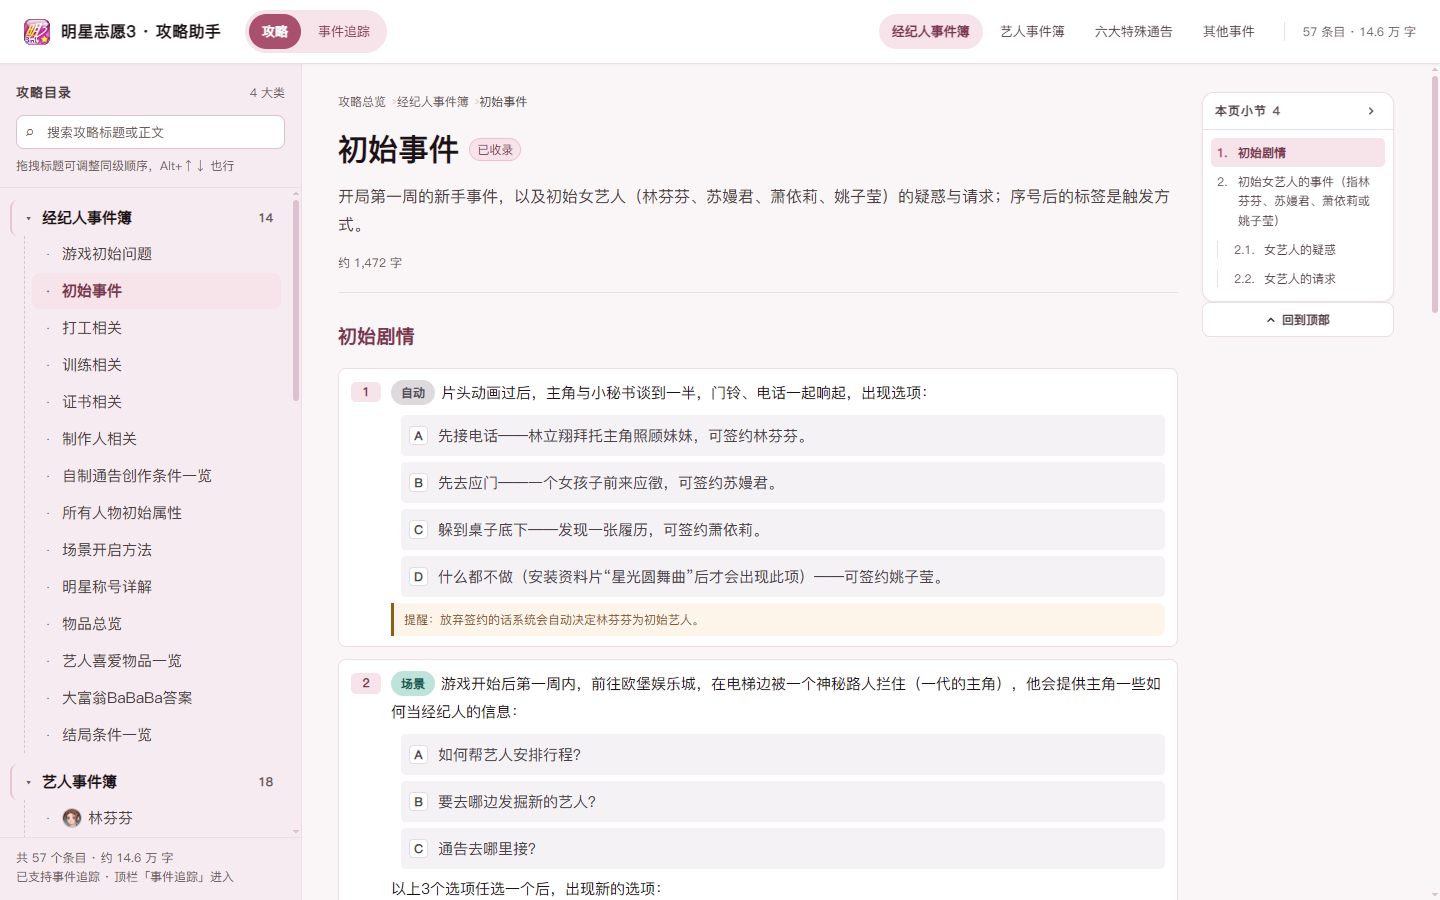
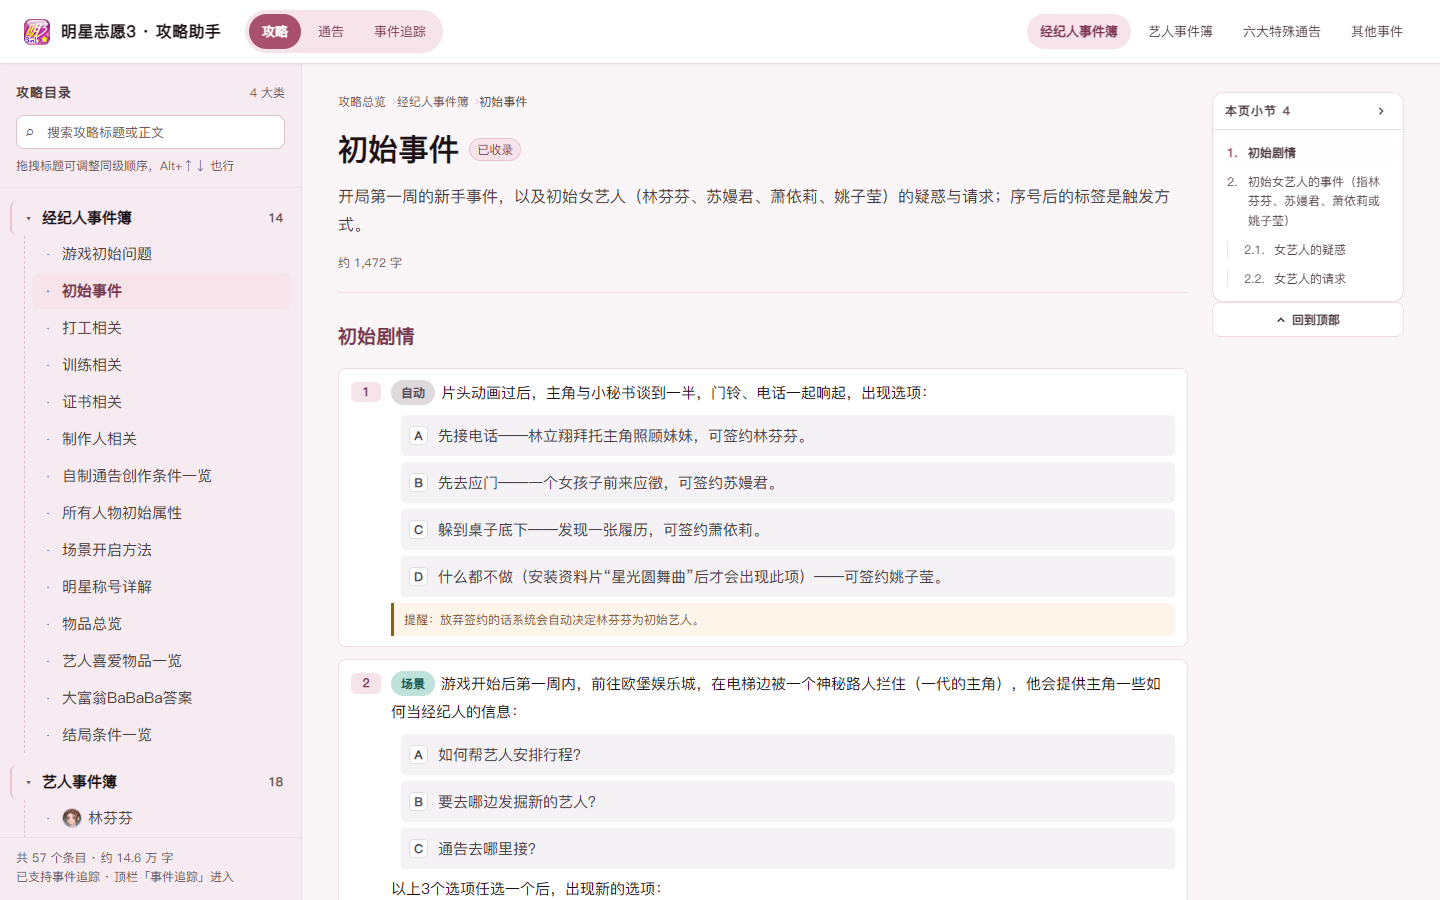
feat: drop the entry count from the header

diff --git a/src/components/BrandHeader.tsx b/src/components/BrandHeader.tsx
@@ -1,5 +1,4 @@
-import type { GuideNode, GuideSummary } from '../types/guide';
-import { formatCount } from '../lib/guide';
+import type { GuideNode } from '../types/guide';
 import { cn } from '../lib/cn';
 import { HIGHLIGHT_ENABLED } from '../hooks/useHighlightPref';
 import HighlightSwitch from './HighlightSwitch';
@@ -8,7 +7,6 @@ import ViewTabs, { type ViewMode } from './ViewTabs';
 interface Props {
   categories: GuideNode[];
   activeCategoryId: string;
-  summary: GuideSummary;
   mode: ViewMode;
   onViewGuide: () => void;
   onViewTracker: () => void;
@@ -18,7 +16,7 @@ interface Props {
 }
 
 export default function BrandHeader({
-  categories, activeCategoryId, summary, mode, onViewGuide, onViewTracker, onViewNotices,
+  categories, activeCategoryId, mode, onViewGuide, onViewTracker, onViewNotices,
   onSelect, onMenuClick,
 }: Props) {
   return (
@@ -73,12 +71,6 @@ export default function BrandHeader({
           )}
 
           {HIGHLIGHT_ENABLED && <HighlightSwitch />}
-
-          {mode === 'guide' && (
-            <div className="whitespace-nowrap border-l border-line pl-[18px] text-ui-2xs text-ink-faint tab:hidden">
-              {summary.items} 条目 · {formatCount(summary.chars)} 字
-            </div>
-          )}
         </div>
       </div>
     </header>

diff --git a/src/App.tsx b/src/App.tsx
@@ -96,7 +96,6 @@ function GuideApp({ data: source, mode, onViewGuide, onViewTracker, onViewNotice
         <BrandHeader
           categories={data.categories}
           activeCategoryId={activeCategoryId}
-          summary={summary}
           mode={mode}
           onViewGuide={onViewGuide}
           onViewTracker={onViewTracker}
